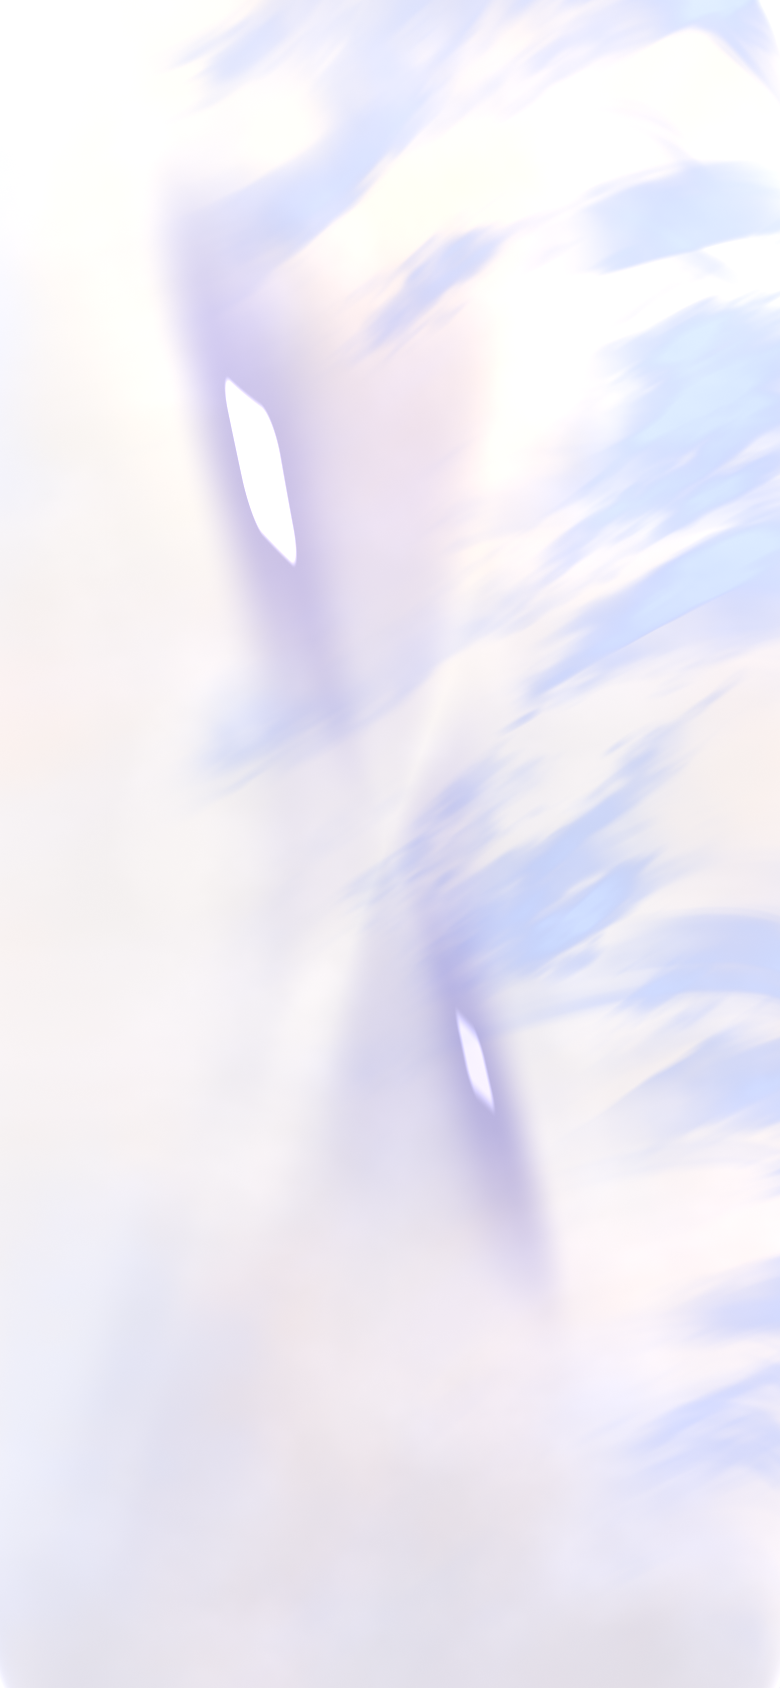
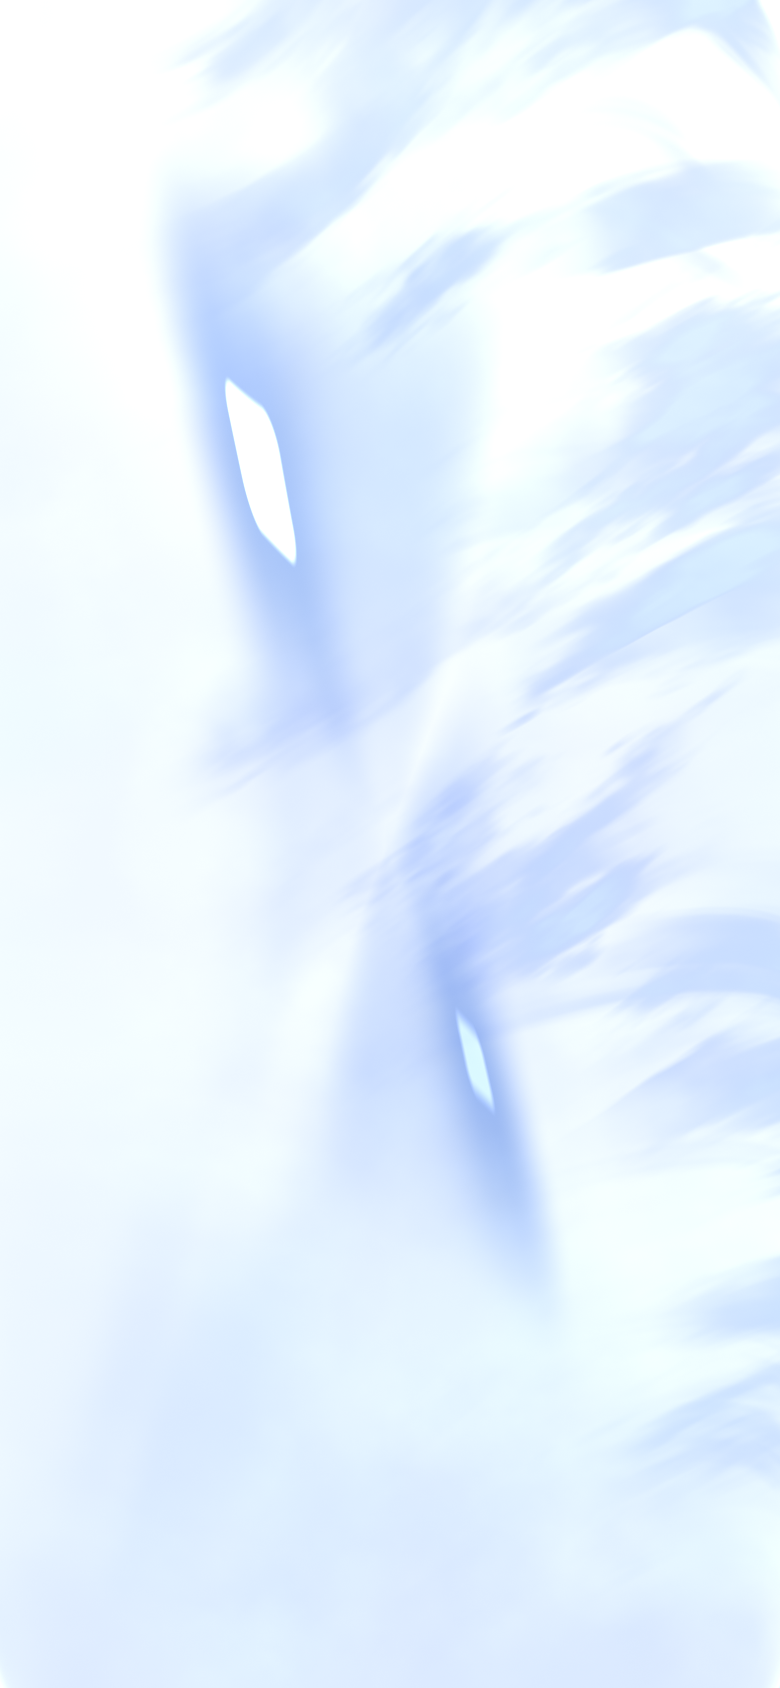
WIP: moonstone colours moved to cool pearl and steel-blue pockets (not yet reviewed)
Claude-Session: https://claude.ai/code/session_01DRAcaZvypgnSaCTMdJvvGx

Changed region(s): [[0.2462, 0.154, 0.5846, 0.4005], [0.5538, 0.5545, 0.6769, 0.7085]]

diff --git a/stone/stone-full.html b/stone/stone-full.html
@@ -61,10 +61,10 @@ void main(){
     // fine grain (irregular, low contrast) so the interior reads as crystal not haze
     float grain=vn(vec3(p*vec2(310.,70.),2.))*.5+vn(vec3(p*vec2(160.,38.),7.))*.5;
     // clean pearl body: colour drifts between cream, soft peach and cool white. No darkening anywhere.
-    vec3 body=vec3(.935,.912,.880);
-    float wm=smoothstep(.40,.78,fbm(vec3(p*1.6,4.)));body=mix(body,vec3(.985,.915,.855),wm*.75);
-    float cm=smoothstep(.45,.80,fbm(vec3(p*1.3,13.)));body=mix(body,vec3(.885,.915,.985),cm*.70);
-    body=mix(body,vec3(.95,.925,.965),clamp(cloud,0.,1.)*.5);
+    vec3 body=vec3(.925,.940,.962);
+    float wm=smoothstep(.40,.78,fbm(vec3(p*1.6,4.)));body=mix(body,vec3(.905,.955,.965),wm*.60);
+    float cm=smoothstep(.45,.80,fbm(vec3(p*1.3,13.)));body=mix(body,vec3(.880,.920,.990),cm*.65);
+    body=mix(body,vec3(.930,.950,.985),clamp(cloud,0.,1.)*.5);
     blue*=1.-smoothstep(.0,1.,1.-length(p-vec2(-.14,.915))/.16);
     float bl=min(1.-exp(-blue*2.0),.62);
     vec3 deep=vec3(.30,.46,.92),lite=vec3(.74,.85,1.);
@@ -73,11 +73,11 @@ void main(){
     // polished surface
     vec3 r=reflect(-V,N);float F=.045+.955*pow(1.-max(dot(N,V),0.),5.);
     vec3 ev=env(r);float el=dot(ev,vec3(.33));
-    c*=mix(vec3(.91,.92,.99),vec3(1.),smoothstep(.25,.85,el));
+    c*=mix(vec3(.90,.94,1.0),vec3(1.),smoothstep(.25,.85,el));
     
     float h1=rbox(r.xy,vec2(-.26,.30),vec2(.26,.23),.20,.17);
     float h2=rbox(r.xy,vec2(.20,-.16),vec2(.17,.15),.15,.15);
-    c=mix(c,c*vec3(.70,.68,.90),max(h1,h2)*.80);
+    c=mix(c,c*vec3(.56,.68,.90),max(h1,h2)*.82);
     c+=ev*(F*1.0+.05)*vec3(.98,.99,1.);
     c+=vec3(1.,1.,1.02)*boxes(r)*(.55+.45*F*6.)*.95;
     float edgeLit=smoothstep(.965,.995,d)*smoothstep(-.1,.7,(-p.x+p.y)*1.4);c+=vec3(1.)*edgeLit*.30;
